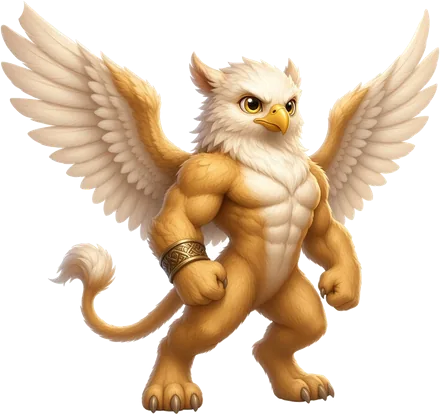
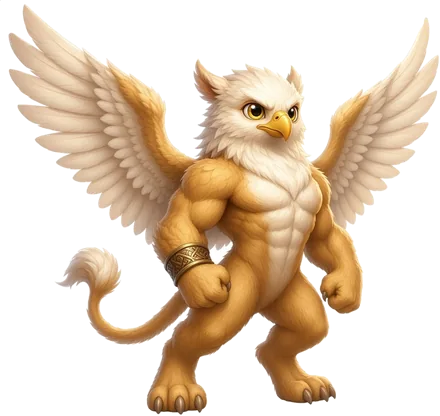
Compagnon : griffon adulte avec les ailes complètes
Claude-Session: https://claude.ai/code/session_014VBvzn7cPipHkoepy8RC9p

diff --git a/index.html b/index.html
@@ -5707,10 +5707,10 @@ function doImport() {
 
 
 /* ===================== Nouveautés (à mettre à jour à chaque version) ===================== */
-const APP_VERSION = '9.56.0'; // ⚠ Mettre aussi le même numéro dans version.json (sinon pas de mise à jour automatique)
+const APP_VERSION = '9.56.1'; // ⚠ Mettre aussi le même numéro dans version.json (sinon pas de mise à jour automatique)
 /* Notes de mise à jour : UNE seule entrée par jour. Si une entrée existe déjà pour aujourd'hui, mets-la à jour (v = dernière version, ajoute/réécris les puces) au lieu d'en ajouter une nouvelle. */
 const CHANGELOG = [
-  {v: '9.56.0', d: '2026-11-15', fr: ['🥚 Nouveau : ton compagnon ! Un œuf mystérieux éclot au niveau 10 : dragon, golem, loup, hibou ou griffon selon ta façon de t\'entraîner. Il grandit au niveau 25, devient adulte au 40 (forme de ta classe) et doré au 100. Il est content quand tu t\'entraînes, se repose avec toi et s\'ennuie si tu arrêtes. Tu peux lui donner un nom (Guilde).', '🏅 Médailles : chaque catégorie se replie, avec sa barre de progression. La page est beaucoup plus courte.', '🎁 Armurerie : nouvel onglet « Coffres » avec tes 4 collections de fragments et toutes leurs récompenses.', '🔒 Nouvelle page « Politique de confidentialité » et bouton « Supprimer mon compte » (Réglages → Données et compte).'],
+  {v: '9.56.1', d: '2026-11-15', fr: ['🥚 Nouveau : ton compagnon ! Un œuf mystérieux éclot au niveau 10 : dragon, golem, loup, hibou ou griffon selon ta façon de t\'entraîner. Il grandit au niveau 25, devient adulte au 40 (forme de ta classe) et doré au 100. Il est content quand tu t\'entraînes, se repose avec toi et s\'ennuie si tu arrêtes. Tu peux lui donner un nom (Guilde).', '🏅 Médailles : chaque catégorie se replie, avec sa barre de progression. La page est beaucoup plus courte.', '🎁 Armurerie : nouvel onglet « Coffres » avec tes 4 collections de fragments et toutes leurs récompenses.', '🔒 Nouvelle page « Politique de confidentialité » et bouton « Supprimer mon compte » (Réglages → Données et compte).'],
     en: ['🥚 New: your companion! A mystery egg hatches at level 10 into a dragon, golem, wolf, owl or griffin depending on how you train. It grows at level 25, becomes an adult at 40 (your class form) and turns golden at 100. It\'s happy when you train and sad if you stop. You can name it (Guild).', '🏅 Medals: each category folds, with its progress bar.', '🎁 Armory: new “Chests” tab with your 4 fragment collections.', '🔒 New privacy policy page and “Delete my account” button (Settings → Data & account).']},
   {v: '9.54.1', d: '2026-11-14', fr: ['🧹 Grand ménage : le blason du Mimique apparaît bien dans l\'Armurerie, « Tour de taille » ne se confond plus avec ta taille, l\'emoji Terre est remplacé par une icône, les réactions et commentaires reçus sont regroupés dans la cloche 🔔, la fenêtre « Mon code » explique le @pseudo, et l\'anglais est complété.', '🎁 Coffres : 4 sortes de fragments (Liche 💀, Dragon 🐉, Kraken 🐙, Mimique 🎁), chacune avec sa propre collection exclusive : 20 récompenses en tout (titres, cadres, thèmes, victoires, blasons, bannières). Chaque coffre donne des fragments d\'un monstre au hasard, et le légendaire en donne de 2 monstres. Tes anciens fragments comptent pour la Liche et le Mimique.', '🧭 La visite de la Guilde attend ta première séance (avant, la Guilde est vide).', '🎓 Ton niveau d\'expérience (débutant, intermédiaire, avancé) sert enfin à quelque chose : séries proposées, temps de récupération et conseils de l\'IA. Et il monte tout seul au fil de tes séances!', '📋 Nouveau compte : l\'appli te prépare un programme de départ selon ton objectif, tes séances par semaine et ton niveau, avec ton horaire de la semaine. ', '👥 Le bouton « Ajouter » est maintenant au début de ta liste d\'amis.', '🔔 Touche une notification de like ou de commentaire : la séance s\'ouvre, avec les réactions et les commentaires, et tu peux répondre.', '👥 Ajouter un ami est plus évident : recherche par @pseudo directement dans Amis quand tu n\'en as pas encore, et une carte « Entraîne-toi avec tes amis » dans Muscu.', '⚔ Défis : ton ami reçoit une notification et doit accepter (ou refuser). Les 7 jours commencent quand il accepte.', '🛡 Raid : chaque aventurier compte pour 3 000 reps max, pour que personne ne porte le groupe seul. Explication plus claire.', '👑 Saison : il faut au moins 3 aventuriers actifs dans le mois pour remporter le trophée. Les anciennes victoires trop faciles sont recalculées.', '🎆 Victoires refaites : chaque fête est maintenant différente (fusées, pièces d\'or qui rebondissent, flammes, vrais flocons, éclairs, spirale, rayons divins, couronne…).', '🏞 Bannières redessinées, plus détaillées et animées (braises, étoiles filantes, vagues, lucioles, portail…).', '📥 « Tu viens d\'une autre appli? » : importe ton fichier CSV de Hevy, Strong ou autre.', '🧭 Nouvelle visite de la Guilde. La visite ne parle plus de sauvegarde si tu es connecté avec Google.', '🧍 Une seule fiche « Mes infos » (âge, taille, sexe, poids) partout : profil, cardio, réglages. Le niveau de force a été retiré.', '🧹 Moins de doublons : le rappel de sauvegarde disparaît si la sauvegarde Google est active, et les autres options de sauvegarde sont repliées.'],
     en: ['🧹 Cleanup: Mimic crest shows in the Armory, clearer labels, reactions and comments grouped in the bell, more English translations.', '🎁 Chests: 7 new exclusive rewards (10 total) and more fragments per chest.', '🧭 The Guild tour waits for your first workout.', '🎓 Your experience level now matters (suggested sets, recovery, AI advice) and goes up on its own as you train.', '📋 New account: a starter program is built from your goal, weekly workouts and level, with your weekly schedule.', '👥 The “Add” button is now at the start of your friends list.', '🔔 Tap a like or comment notification to open the workout, with reactions and comments, and reply.', '👥 Adding friends is clearer: search by @username right in Friends, and a “Train with your friends” card in Workout.', '⚔ Challenges: your friend gets a notification and must accept (or decline). The 7 days start when they accept.', '🛡 Raid: each adventurer counts for 3,000 reps max, so nobody carries the group alone.', '👑 Season: at least 3 active adventurers are needed to win the trophy. Old too-easy wins are recalculated.', '🎆 Victories redone: each celebration is now different.', '🏞 Banners redrawn, more detailed and animated.', '📥 “Coming from another app?”: import your CSV file from Hevy, Strong or others.', '🧭 New Guild tour. The tour no longer talks about backup if you\'re signed in with Google.', '🧍 One single “My info” sheet everywhere. Strength level removed.', '🧹 Fewer duplicates: no backup reminder when Google backup is on.']},
